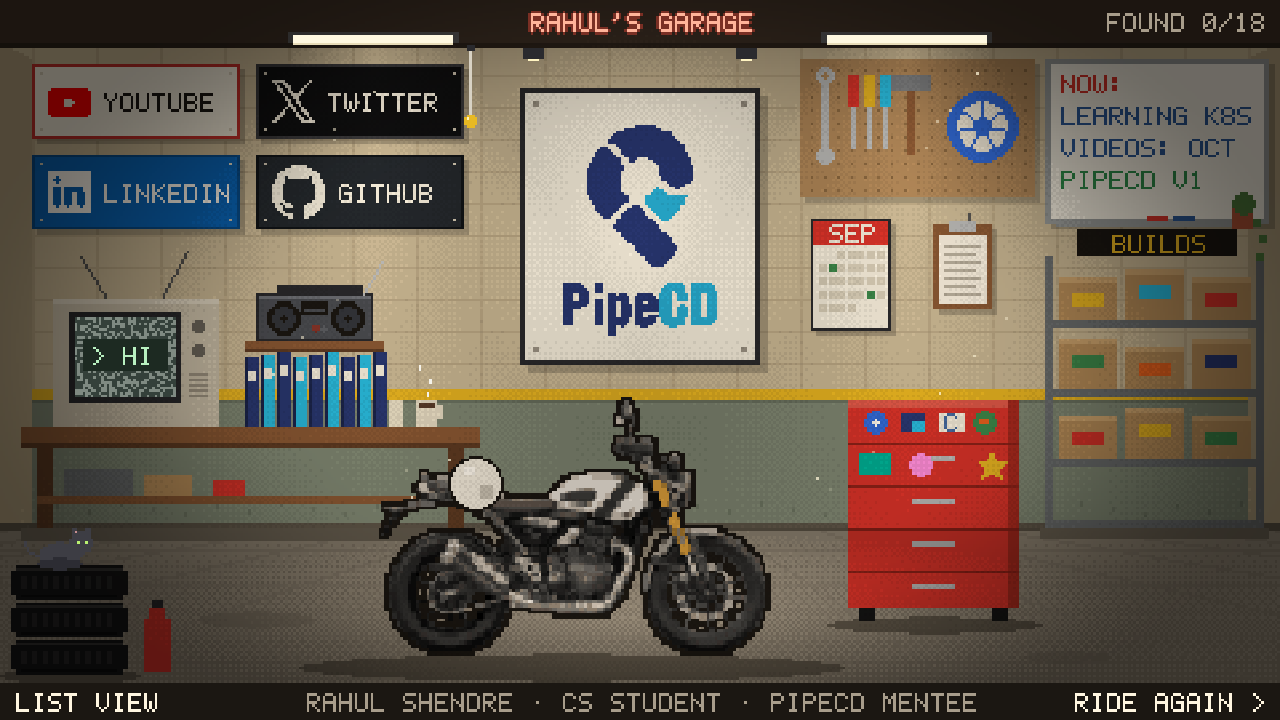
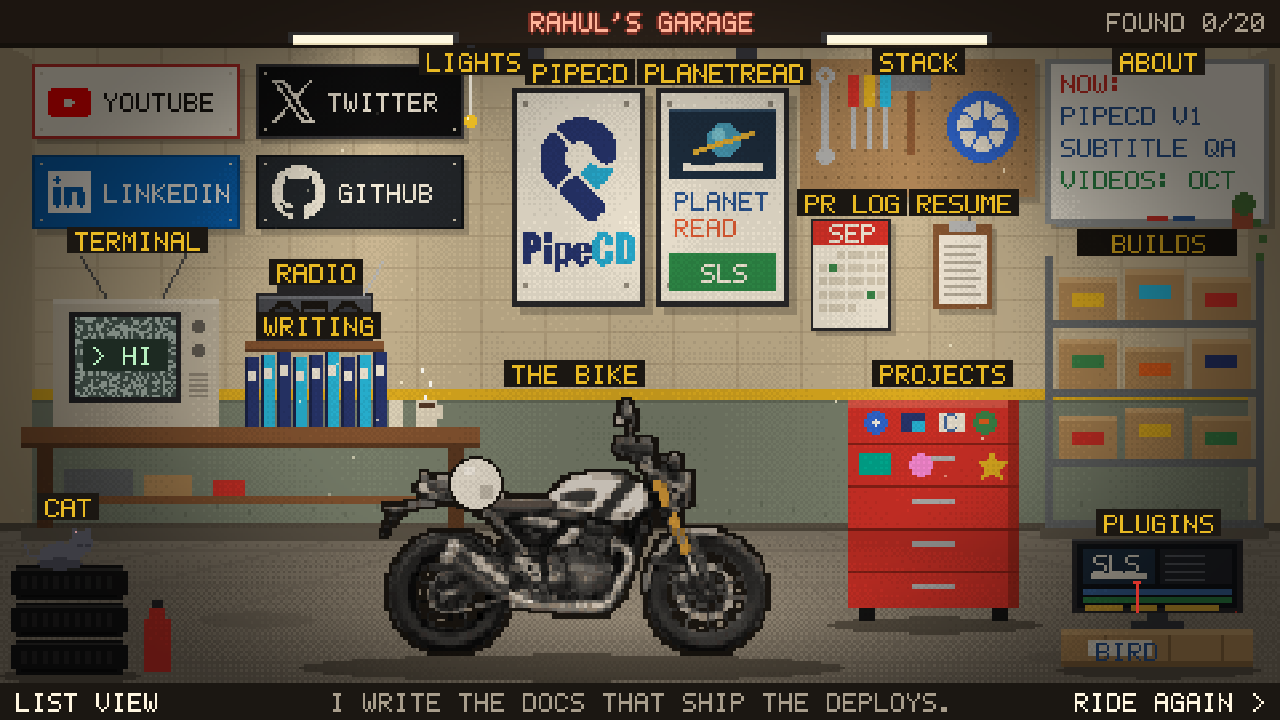
feat: PlanetRead page, second poster and an edit bay in the garage, richer terminal, resume and about

diff --git a/src/data/site.ts b/src/data/site.ts
@@ -9,9 +9,9 @@ export const site = {
     'CS student in Pune. LFX 2026 mentee on PipeCD, a CNCF project. Open source, Kubernetes, Go, and a white Triumph Scrambler 400X.',
   location: 'Pune, India',
   // One line in the garage's bottom bar, so who this is reads at a glance. Upper-case safe for the pixel font.
-  badge: 'CS STUDENT · PIPECD MENTEE',
+  badge: 'PIPECD MENTEE · PLANETREAD DEV',
   // The garage whiteboard: three lines, 12 characters at most.
-  now: ['LEARNING K8S', 'VIDEOS: OCT', 'PIPECD V1'],
+  now: ['PIPECD V1', 'SUBTITLE QA', 'VIDEOS: OCT'],
   email: 'rahulshendre789@gmail.com',
   links: {
     github: 'https://github.com/rahulshendre',
@@ -36,6 +36,7 @@ export const socials = [
 export const nav = [
   { href: '/builds', label: 'Builds' },
   { href: '/open-source', label: 'Open Source' },
+  { href: '/planetread', label: 'PlanetRead' },
   { href: '/videos', label: 'Videos' },
   { href: '/garage', label: 'Garage' },
   { href: '/writing', label: 'Writing' },
@@ -84,6 +85,9 @@ export const planetread = {
   url: 'https://planetread.org',
   what: 'Non-profit behind Same Language Subtitling (SLS), which uses subtitles in the same language as the audio to build reading skills.',
   sls: 'https://en.wikipedia.org/wiki/Same_language_subtitling',
+  role: 'Software development intern',
+  since: 'June 2025',
+  path: 'Started through C4GT DMP 2025, then stayed on as a software development intern. The work sits under BIRD, PlanetRead\'s initiative for reading and learning tools.',
   plugins: [
     { name: 'Click and Align Subtitle Tool', url: 'https://exchange.adobe.com/apps/cc/204683/click-and-align-subtitle-tool' },
     { name: 'Slide and Align Subtitle Tool', url: 'https://exchange.adobe.com/apps/cc/204734/slide-and-align-subtitle-tool' },
@@ -92,7 +96,90 @@ export const planetread = {
     play: 'https://play.google.com/store/apps/details?id=com.bookbox.anibooks&hl=en_IN',
     amazon: 'https://www.amazon.com/BookBox-Inc-English/dp/B007XK02OO',
     appStore: 'https://apps.apple.com/in/app/bookbox/id375316138',
+    source: 'https://github.com/rahulshendre/BookBox',
   },
+  // Everything below is checked against the repos and the DMP 2026 pull request, not written from memory.
+  stats: [
+    ['2', 'Premiere Pro plugins live on Adobe Exchange'],
+    ['22', 'Indian languages the plugins support'],
+    ['3', 'app stores carrying the BookBox app'],
+    ['10k+', 'downloads on Google Play'],
+    ['1,000+', 'daily users on Cricmaths'],
+  ] as [string, string][],
+  work: [
+    {
+      id: 'plugins',
+      name: 'Subtitle plugins for Adobe Premiere Pro',
+      tag: 'Live on Adobe Exchange',
+      stack: ['JavaScript', 'CEP', 'ExtendScript', 'Premiere Pro'],
+      body: [
+        'Editors at PlanetRead were placing every subtitle by hand. I built two Premiere Pro extensions that turn a plain text file into a caption track, and both are live on Adobe Exchange.',
+        'Click and Align: load the text, play the video, and click to mark where each line starts and ends. It writes a caption track and timeline markers, lets you export mid-session and carry on, saves your progress, and reads both UTF-16 and UTF-8 files.',
+        'Slide and Align: the same text file, but timing is spread across the video in proportion to each line\'s word count, or set by hand with start and end times, with a word spacing control.',
+        'Both support the 22 Indian languages, run on Windows and macOS, and have been kept working with new Premiere Pro releases (25 and 26). A developer guide is in the repo for whoever maintains them next.',
+      ],
+      links: [
+        { label: 'Click and Align on Adobe Exchange', url: 'https://exchange.adobe.com/apps/cc/204683/click-and-align-subtitle-tool' },
+        { label: 'Slide and Align on Adobe Exchange', url: 'https://exchange.adobe.com/apps/cc/204734/slide-and-align-subtitle-tool' },
+        { label: 'Click and Align demo', url: 'https://youtu.be/HWKLLsV6Un4' },
+        { label: 'Source', url: 'https://github.com/rahulshendre/Click_and_Align_Subtitle_tool' },
+      ],
+    },
+    {
+      id: 'bookbox',
+      name: 'BookBox app, moved to React Native',
+      tag: '10k+ downloads on Google Play',
+      stack: ['React Native', 'Expo', 'TypeScript', 'Expo Router'],
+      body: [
+        'BookBox AniBooks are animated stories with same language subtitles for early readers. I moved the app fully to React Native with Expo, so one codebase serves Android, iOS and the Amazon Appstore.',
+        'Stories come from PlanetRead\'s API with language and level filters and search. A story opens as a YouTube video with its own start and end times, or as a PDF, and the next one in the playlist plays on. It also handles being offline and has an error boundary so one bad story does not crash the app.',
+      ],
+      links: [
+        { label: 'Google Play', url: 'https://play.google.com/store/apps/details?id=com.bookbox.anibooks&hl=en_IN' },
+        { label: 'App Store', url: 'https://apps.apple.com/in/app/bookbox/id375316138' },
+        { label: 'Amazon Appstore', url: 'https://www.amazon.com/BookBox-Inc-English/dp/B007XK02OO' },
+        { label: 'Source', url: 'https://github.com/rahulshendre/BookBox' },
+      ],
+    },
+    {
+      id: 'cricmaths',
+      name: 'Cricmaths, maths through live cricket',
+      tag: '1,000+ daily users',
+      stack: ['Laravel', 'PHP', 'MySQL', 'REST APIs'],
+      body: [
+        'Cricmaths turns live cricket matches into maths questions for students. I built the API layer that fetches and normalises match data from more than one provider, with a fallback so a failing provider does not take the game down, and a practice mode so students can play when no match is on.',
+      ],
+      links: [
+        { label: 'cricmaths.com', url: 'https://cricmaths.com/' },
+        { label: 'Source', url: 'https://github.com/rahulshendre/crickmaths_BIRD' },
+      ],
+    },
+    {
+      id: 'checker',
+      name: 'Audio and subtitle mismatch checker',
+      tag: 'C4GT DMP 2026',
+      stack: ['Python', 'Whisper', 'Tesseract OCR', 'OpenCV', 'RapidFuzz'],
+      body: [
+        'The plugins only align subtitles. Whether the text is right was always a manual check. This tool closes that gap: it transcribes the audio with Whisper, grabs a video frame at the middle of each spoken segment, reads the burned-in subtitle with Tesseract, compares the two and flags the segments that disagree in an HTML report with thumbnails and scores.',
+        'On the BookBox AniBook "Rani Goes to School" in Hindi it checked 44 segments: 42 matched and 2 were flagged, both false positives that are explained in the write-up. Marathi and Kannada run through the same pipeline on their own branches. The Kannada notes are honest about where speech recognition falls short.',
+        'I submitted it to PlanetRead as my C4GT DMP 2026 demo.',
+      ],
+      links: [
+        { label: 'Demo video', url: 'https://youtu.be/G06-LdzV9PU' },
+        { label: 'DMP 2026 pull request', url: 'https://github.com/PlanetRead/Burn-in-subtitle-checker/pull/12' },
+        { label: 'Source', url: 'https://github.com/rahulshendre/subtitle_mismatch_mvp' },
+      ],
+    },
+  ],
+  timeline: [
+    ['Jun 2025', 'Joined PlanetRead through C4GT DMP 2025'],
+    ['Jul 2025', 'First Premiere Pro plugin prototype: subtitles from a text file'],
+    ['Nov 2025', 'Click and Align repo opens; BookBox MVP with the YouTube API'],
+    ['Feb 2026', 'Slide and Align and the Cricmaths API work'],
+    ['Apr 2026', 'Support for Premiere Pro 26; BookBox app on React Native'],
+    ['Jun 2026', 'Mismatch checker prototype'],
+    ['Sep 2026', 'DMP 2026 demo submitted to PlanetRead'],
+  ] as [string, string][],
 };
 
 // Triumph Scrambler 400 X, white. Specs from triumphmotorcycles.com and Bennetts / Rider Magazine reviews.

diff --git a/src/game/scenes/garage.ts b/src/game/scenes/garage.ts
@@ -140,6 +140,7 @@ export class GarageScene implements Scene {
     this.whiteboard();
     this.shelf();
     this.toolbox();
+    this.editBay();
     this.tyres();
     this.radioBox();
 
@@ -201,12 +202,23 @@ export class GarageScene implements Scene {
     plate(96, 58, '#24292f', '#111418', tint(I.github, '#f4f2ea'), 'GITHUB', '#f4f2ea');
   }
 
+  /** Two posters side by side: PipeCD (open source) and PlanetRead (subtitles). */
   private pipecdSign() {
-    rect(198, 36, 90, 104, '#00000033');
-    rect(195, 33, 90, 104, '#2a2a2e'); rect(197, 35, 86, 100, '#f4f2ea');
-    for (const [x, y] of [[200, 38], [278, 38], [200, 130], [278, 130]]) rect(x, y, 2, 2, '#9a958b');
-    const pw = Math.round(this.img.pipecd.width * 90 / 108), ph = Math.round(this.img.pipecd.height * 104 / 126);
-    blit(this.img.pipecd, 211, 47, pw, ph);
+    const frame = (x: number) => {
+      rect(x + 3, 36, 50, 82, '#00000033');
+      rect(x, 33, 50, 82, '#2a2a2e'); rect(x + 2, 35, 46, 78, '#f4f2ea');
+      for (const [dx, dy] of [[4, 38], [42, 38], [4, 106], [42, 106]]) rect(x + dx, dy, 2, 2, '#9a958b');
+    };
+    frame(192);
+    const k = 0.6, pw = Math.round(this.img.pipecd.width * k), ph = Math.round(this.img.pipecd.height * k);
+    blit(this.img.pipecd, 192 + Math.round((50 - pw) / 2), 44, pw, ph);
+    // PlanetRead: a screen with a subtitle bar under a small planet, the name, and the SLS badge
+    frame(246);
+    rect(251, 41, 40, 26, '#1f3146'); rect(251, 41, 40, 1, '#33506e');
+    disc(271, 52, 6, '#4aa3c7'); disc(269, 50, 2, '#7fd0e8'); line(260, 56, 282, 49, '#e8b83a'); line(260, 57, 282, 50, '#e8b83a');
+    rect(256, 61, 30, 3, '#f4f2ea'); rect(259, 61, 9, 1, '#1f3146');
+    text('PLANET', 253, 72, '#2c5aa0'); text('READ', 253, 82, '#e8623a');
+    rect(251, 95, 40, 14, '#2f8f4e'); textC('SLS', 271, 99, '#f4f2ea');
   }
 
   private workbench() {
@@ -302,6 +314,21 @@ export class GarageScene implements Scene {
     poly([[372, 169], [374, 173], [378, 173], [375, 176], [376, 180], [372, 178], [368, 180], [369, 176], [366, 173], [370, 173]], C.accent);
   }
 
+  /** A small video edit bay on a crate: a monitor showing a Premiere-style timeline. The playhead moves in animate(). */
+  private editBay() {
+    ellipse(434, 251, 38, 3, '#5f584d');
+    rect(398, 236, 72, 14, '#b8915f'); rect(398, 236, 72, 2, '#cda875'); rect(398, 248, 72, 2, '#8f6e45');
+    for (const x of [414, 438, 458]) rect(x, 238, 1, 10, '#8f6e45');
+    rect(408, 240, 24, 6, '#f4f2ea'); text('BIRD', 411, 241, '#2c5aa0');
+    rect(424, 233, 20, 3, '#3a3d44'); rect(430, 229, 8, 4, '#3a3d44');
+    rect(402, 202, 64, 28, '#2a2a2e'); rect(402, 202, 64, 1, '#4a4d55'); rect(404, 204, 60, 24, '#12151b');
+    rect(406, 206, 27, 13, '#1f3146'); text('SLS', 410, 208, '#f4f2ea'); rect(409, 215, 21, 2, '#f4f2ea'); // preview with a subtitle bar
+    rect(435, 206, 27, 13, '#23262e'); for (const y of [208, 211, 214, 217]) rect(437, y, 12 + (y % 3) * 3, 1, '#5a5f6b');
+    rect(406, 221, 56, 2, '#3d6fb5'); rect(406, 224, 56, 2, '#2f8f4e'); // video and audio tracks
+    for (const [x, w] of [[407, 14], [424, 10], [437, 20]]) rect(x, 227, w, 2, '#e8b83a'); // subtitle clips
+    rect(463, 229, 1, 1, C.red);
+  }
+
   private radioBox() {
     rect(92, 128, 52, 3, C.wood); rect(92, 131, 52, 1, C.woodDark);
     rect(96, 110, 44, 18, '#2a2a2e'); rect(97, 111, 42, 16, '#4a4d55'); rect(97, 111, 42, 1, '#6b6f79');
@@ -339,6 +366,9 @@ export class GarageScene implements Scene {
       const p = (t * 0.7 + k / 3) % 1;
       rect(159 + Math.round(Math.sin((p + k) * 6) * 2), 148 - p * 14, 1, 2, '#f4f2ea');
     }
+    // edit bay: the playhead sweeps the timeline
+    const ph = 406 + Math.floor((t * 7) % 56);
+    rect(ph, 218, 1, 12, C.red); rect(ph - 1, 218, 3, 1, C.red);
     this.cat(t);
     this.radioLive(t);
     this.cord();
@@ -454,10 +484,11 @@ export class GarageScene implements Scene {
   private buildNight() {
     const src = [
       { x: 240, y: 9, r: 100, c: [255, 150, 120] },   // neon sign
-      { x: 240, y: 86, r: 62, c: [255, 236, 190] },   // PipeCD sign, spotlit
+      { x: 244, y: 78, r: 66, c: [255, 236, 190] },   // the two posters, spotlit
       { x: 51, y: 134, r: 56, c: [120, 255, 170] },   // CRT
       { x: 118, y: 119, r: 36, c: [255, 196, 110] },  // radio
       { x: 214, y: 205, r: 92, c: [255, 226, 170] },  // work lamp over the bike
+      { x: 434, y: 216, r: 42, c: [140, 190, 255] },  // edit bay monitor
     ];
     const mk = () => { const c = document.createElement('canvas'); c.width = 480; c.height = 270; return c; };
     const dark = mk(), glow = mk();

diff --git a/src/game/terminal.ts b/src/game/terminal.ts
@@ -15,7 +15,6 @@ const EXTRA: Record<string, { href: string; external: boolean }> = {
   twitter: { href: site.links.x, external: true },
   linkedin: { href: site.links.linkedin, external: true },
   pipecd: { href: pipecd.site, external: true },
-  planetread: { href: planetread.url, external: true },
   list: { href: '/list', external: false },
   home: { href: '/?garage', external: false },
 };
@@ -23,7 +22,7 @@ const EXTRA: Record<string, { href: string; external: boolean }> = {
 const HELP: [string, string][] = [
   ['about', 'who is Rahul'],
   ['pipecd', 'the LFX mentorship'],
-  ['planetread', 'the subtitle plugins'],
+  ['planetread', 'my work with PlanetRead'],
   ['stack', 'tools I use'],
   ['bike', 'the Scrambler 400 X'],
   ['ls', 'every section'],
@@ -79,7 +78,13 @@ export function run(raw: string): Result {
       };
     case 'planetread':
       return {
-        lines: [{ text: planetread.what }, ...planetread.plugins.map((p) => link(p.name, p.url, true))],
+        lines: [
+          { text: `${planetread.role}, since ${planetread.since}` },
+          { text: planetread.what },
+          ...planetread.work.map((w) => ({ text: `${w.name}: ${w.tag}` })),
+          link('the full story', '/planetread'),
+          link('planetread.org', planetread.url, true),
+        ],
       };
     case 'stack':
       return { lines: [{ text: site.stack.join(', ') }, link('the pegboard', '/about#stack')] };

diff --git a/src/game/hotspots.ts b/src/game/hotspots.ts
@@ -24,7 +24,9 @@ export interface Control {
 const yt = site.links.youtube;
 
 export const HOTSPOTS: Hotspot[] = [
-  { id: 'pipecd', label: 'PIPECD SIGN · OPEN SOURCE', tag: 'OPEN SOURCE', href: '/open-source', rect: [195, 33, 90, 104] },
+  { id: 'pipecd', label: 'PIPECD POSTER · OPEN SOURCE', tag: 'PIPECD', href: '/open-source', rect: [192, 33, 50, 82] },
+  { id: 'planetread', label: 'PLANETREAD POSTER · SUBTITLES AND APPS', tag: 'PLANETREAD', href: '/planetread', rect: [246, 33, 50, 82] },
+  { id: 'editbay', label: 'EDIT BAY · THE PREMIERE PLUGINS', tag: 'PLUGINS', href: '/planetread#plugins', rect: [398, 202, 72, 48] },
   { id: 'bike', label: 'THE SCRAMBLER 400X', tag: 'THE BIKE', href: '/garage', rect: [108, 146, 214, 106] },
   // enamel signs: the socials
   { id: 'youtube', label: yt ? 'YOUTUBE · MY CHANNEL' : 'YOUTUBE · VIDEOS FROM OCT', tag: 'YOUTUBE', href: yt || '/videos', rect: [12, 24, 78, 28], external: !!yt },

diff --git a/README.md b/README.md
@@ -8,6 +8,7 @@ More screenshots in `docs/screenshots/` (door, night with the bike lit, the TV t
 
 ## In the garage
 
+- Two posters on the back wall: PipeCD (open source) and PlanetRead (subtitles and apps, `/planetread`). The edit bay by the shelf shows the Premiere Pro plugins.
 - Point at anything: it glows. Click: sections open in a panel over the garage (Esc or Back closes it, "Full page" opens the plain page). Outside links open in a new tab.
 - The CRT TV is a terminal (`help`, `about`, `pipecd`, `open builds`, `night`, `radio`, `ride`). `/` or `` ` `` opens it from anywhere.
 - Pull the cord for lights on or off. It follows the visitor's clock (dark from 7pm to 6am) until they choose, and remembers the choice.
@@ -16,9 +17,9 @@ More screenshots in `docs/screenshots/` (door, night with the bike lit, the TV t
 
 ## Controls
 
-- Door scene: any key or tap skips it. It plays once per browser tab session, then links back to `/` go straight to the garage.
+- Door scene: about 7 seconds of arrival with wind, engine and a sensor light that opens the door. The weather changes per visit (clear, rain with lightning, snow, fog). Browsers keep sound locked until a tap, so if it is blocked the scene waits on TAP TO START. After that any key or tap skips it. It plays once per browser tab session, then links back to `/` go straight to the garage.
 - Ride (the "ride again" button): any key or tap starts it. `S` / Esc or SKIP: straight to the garage. Arrow keys, A/D or tapping screen halves steer (or let the autopilot ride). `V`, `1` `2` `3` or the camera icon: behind, rider POV, top-down. `M` or the speaker icon: engine sound.
-- URLs: `/?ride` forces the ride, `/?garage` skips the door, `/?door` shows only the door, `/?night` and `/?day` force the lights, `/#terminal` opens the terminal, `/#p=%2Fopen-source` opens a section panel, `/?ride&at=700` starts at a road segment, `/?garage&og` hides the counter (share image).
+- URLs: `/?ride` forces the ride, `/?garage` skips the door, `/?door` shows only the door, `/?door&weather=rain|snow|fog|clear` picks the weather, `/?night` and `/?day` force the lights, `/#terminal` opens the terminal, `/#p=%2Fopen-source` opens a section panel, `/?ride&at=700` starts at a road segment, `/?garage&og` hides the counter (share image).
 
 ## Run it
 
